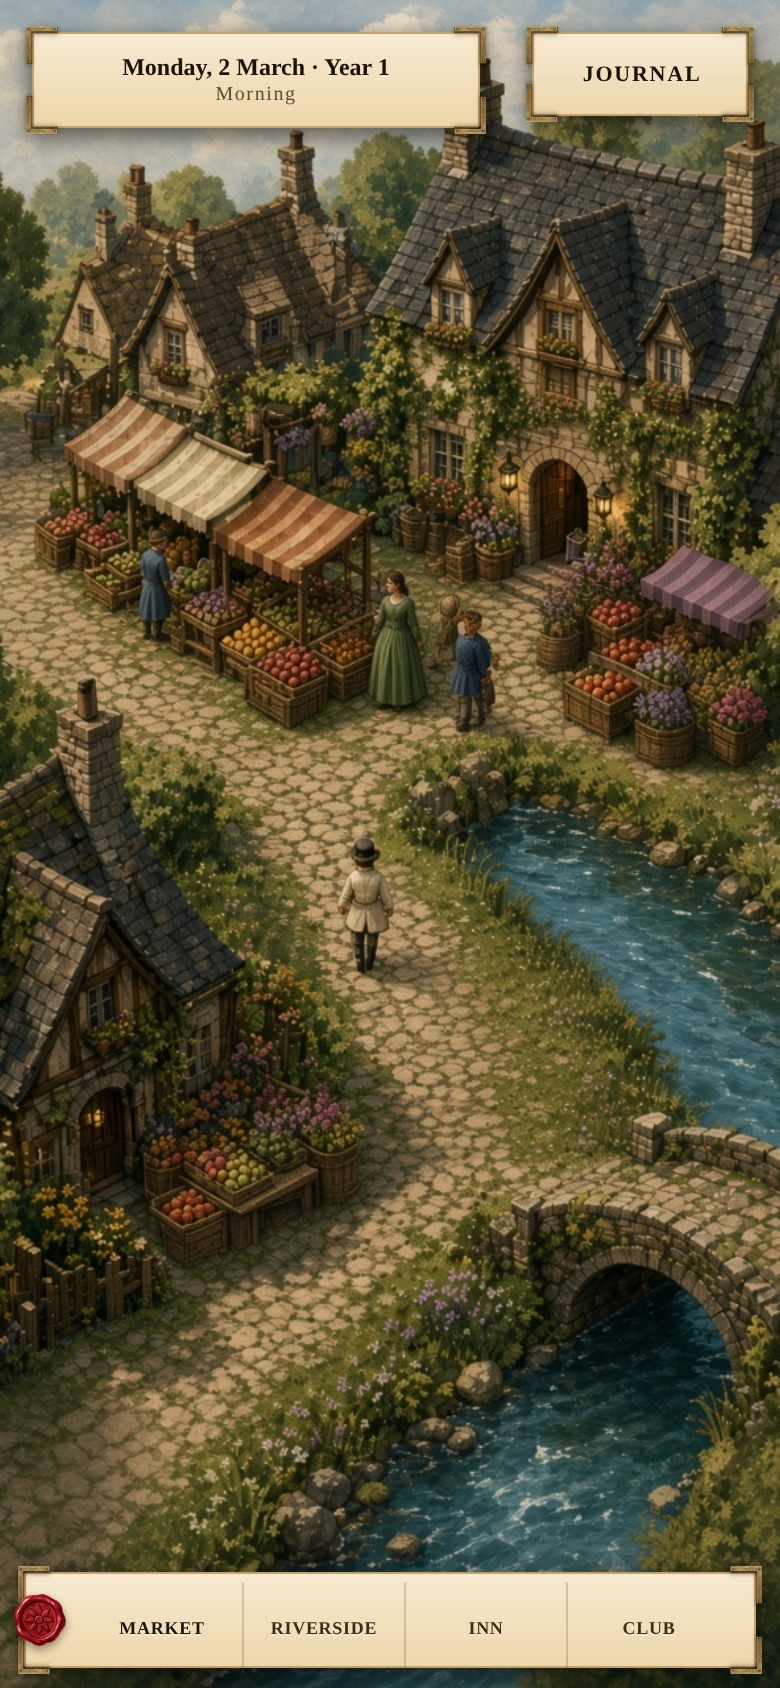
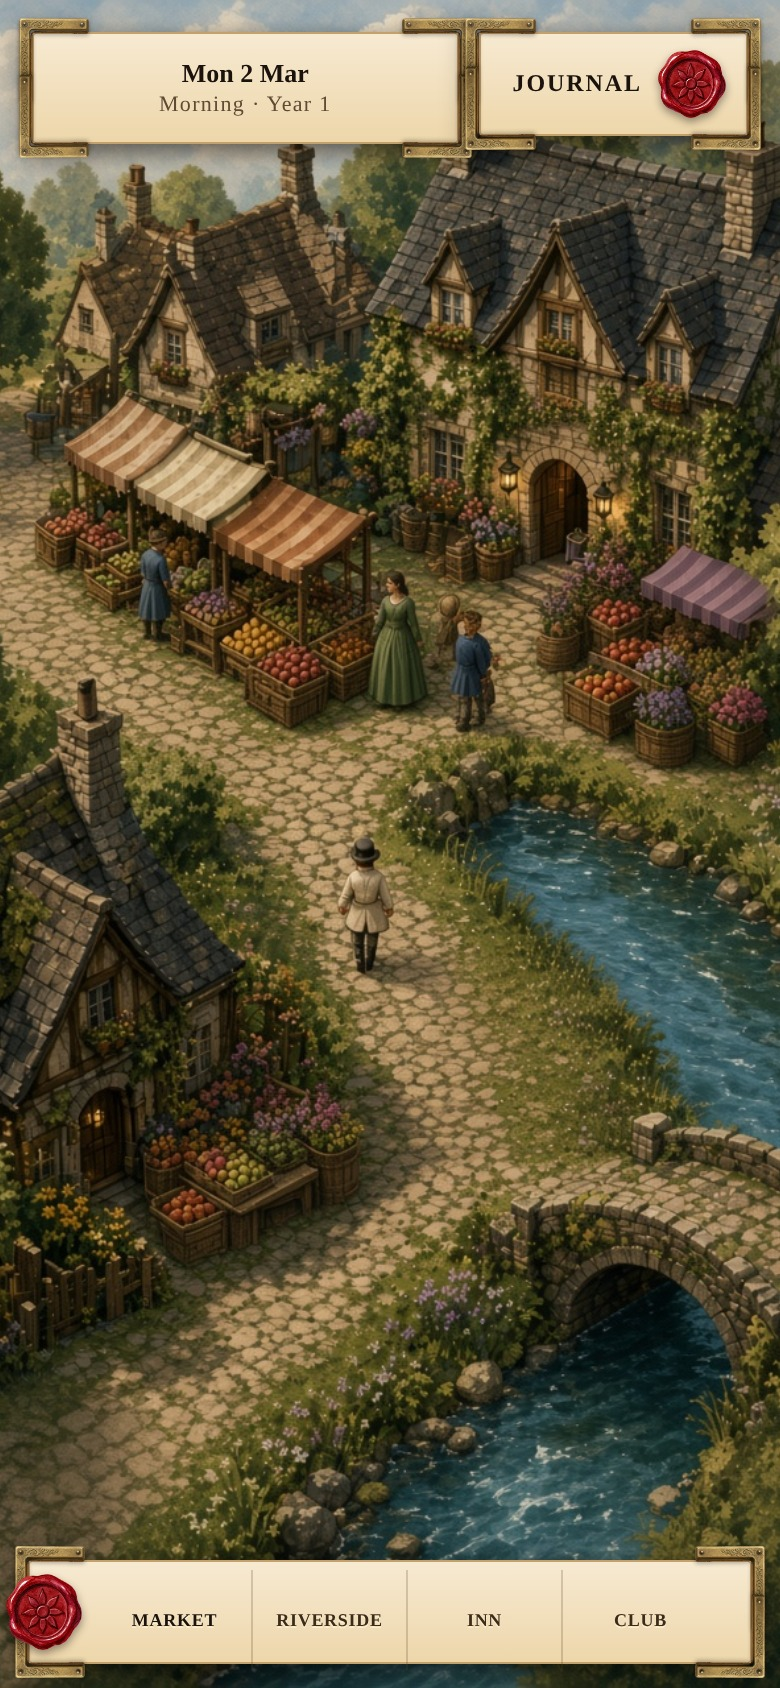
Make Market chrome use the brass photo-corners and wax seals.
The previous pass shrank the hardware so the bars still read as the old cream buttons.

Changed region(s): [[0.0, 0.8934, 0.9846, 1.0], [0.0, 0.0, 0.9846, 0.1232]]

diff --git a/mockups/isometric-town/market-phone.html b/mockups/isometric-town/market-phone.html
@@ -25,7 +25,7 @@
   .paperPlaque{
     position:relative;
     display:flex;flex-direction:row;flex-wrap:nowrap;align-items:stretch;
-    height:48px;min-height:48px;padding:0;margin:0;border:1px solid #c4a06a;border-radius:2px;
+    height:56px;min-height:56px;padding:0;margin:0;border:1px solid #c4a06a;border-radius:2px;
     background:linear-gradient(180deg,#f7ead2 0%,#edd6aa 100%);
     box-shadow:0 4px 10px rgba(0,0,0,.35);
     filter:drop-shadow(0 3px 6px rgba(0,0,0,.28));
@@ -33,46 +33,50 @@
   }
   .paperCorners{position:absolute;inset:0;z-index:5;pointer-events:none}
   .paperCorner{
-    position:absolute;width:16px;height:19px;object-fit:contain;pointer-events:none;
+    position:absolute;width:36px;height:42px;object-fit:contain;pointer-events:none;
     filter:drop-shadow(0 1px 1px rgba(0,0,0,.35));
   }
-  .paperCorner-tl{top:-4px;left:-4px}
-  .paperCorner-tr{top:-4px;right:-4px;transform:scaleX(-1)}
-  .paperCorner-bl{bottom:-4px;left:-4px;transform:scaleY(-1)}
-  .paperCorner-br{bottom:-4px;right:-4px;transform:scale(-1)}
+  .paperCorner-tl{top:-8px;left:-8px}
+  .paperCorner-tr{top:-8px;right:-8px;transform:scaleX(-1)}
+  .paperCorner-bl{bottom:-8px;left:-8px;transform:scaleY(-1)}
+  .paperCorner-br{bottom:-8px;right:-8px;transform:scale(-1)}
   .scrollWell{
     flex:1 1 auto;min-width:0;position:relative;z-index:1;
-    display:flex;align-items:center;justify-content:center;gap:6px;
-    margin:0;padding:4px 16px;border:0;background:none;
+    display:flex;align-items:center;justify-content:center;gap:8px;
+    margin:0;padding:6px 22px;border:0;background:none;
   }
   #advanceTime.paperPlaque{
-    flex:1 1 auto;width:auto;min-width:0;max-width:min(224px, calc(100% - 110px));
-    height:48px;min-height:48px;
+    flex:1 1 auto;width:auto;min-width:0;max-width:min(230px, calc(100% - 128px));
+    height:56px;min-height:56px;
   }
   .scrollCopy{display:flex;flex-direction:column;align-items:center;justify-content:center;text-align:center;min-width:0;overflow:hidden}
   #visualDate{
-    font:700 12px/1.1 Georgia,serif;color:#1a120c;max-width:100%;
+    font:700 13px/1.1 Georgia,serif;color:#1a120c;max-width:100%;
     overflow:hidden;text-overflow:ellipsis;white-space:nowrap;
   }
   #visualPhase{
-    font:500 10px/1.1 Georgia,serif;color:#614a34;margin-top:1px;letter-spacing:.08em;
+    font:500 11px/1.1 Georgia,serif;color:#614a34;margin-top:2px;letter-spacing:.06em;
     max-width:100%;overflow:hidden;text-overflow:ellipsis;white-space:nowrap;
   }
   #worldRecord.paperPlaque{
-    height:42px;min-height:42px;min-width:108px;padding:0;gap:0;
-    font:800 11px/1 Georgia,serif;letter-spacing:.08em;text-transform:uppercase;color:#1a120c;
+    height:52px;min-height:52px;min-width:132px;padding:0;gap:0;
+    font:800 12px/1 Georgia,serif;letter-spacing:.08em;text-transform:uppercase;color:#1a120c;
   }
-  #worldRecord .scrollWell{padding:4px 12px 4px 14px}
+  #worldRecord .scrollWell{padding:4px 10px 4px 16px;gap:8px}
+  #worldRecord .paperSeal{
+    width:34px;height:34px;flex:0 0 auto;object-fit:contain;
+    filter:drop-shadow(0 2px 2px rgba(0,0,0,.4));
+  }
   .locationStrip.paperPlaque{
     position:absolute;z-index:32;left:50%;right:auto;
-    bottom:max(10px, env(safe-area-inset-bottom, 0px));
-    width:min(620px, calc(100% - 24px));height:48px;min-height:48px;
+    bottom:max(12px, env(safe-area-inset-bottom, 0px));
+    width:min(620px, calc(100% - 28px));height:52px;min-height:52px;
     transform:translateX(-50%);
   }
-  .locationStrip .scrollWell{padding:4px 12px 4px 28px}
+  .locationStrip .scrollWell{padding:4px 16px 4px 34px}
   .paperSeal-left{
-    position:absolute;left:-6px;top:50%;transform:translateY(-50%);
-    width:26px;height:26px;object-fit:contain;z-index:6;
+    position:absolute;left:-12px;top:50%;transform:translateY(-50%);
+    width:38px;height:38px;object-fit:contain;z-index:6;
     filter:drop-shadow(0 2px 2px rgba(0,0,0,.4));pointer-events:none;
   }
   .locationWell{
@@ -101,8 +105,8 @@
       </span>
       <span class="scrollWell">
         <span class="scrollCopy">
-          <b id="visualDate">Monday, 2 March · Year 1</b>
-          <span id="visualPhase">Morning</span>
+          <b id="visualDate">Mon 2 Mar</b>
+          <span id="visualPhase">Morning · Year 1</span>
         </span>
       </span>
     </button>
@@ -114,7 +118,7 @@
           <img class="paperCorner paperCorner-bl" src="./paper_corner.png" alt="">
           <img class="paperCorner paperCorner-br" src="./paper_corner.png" alt="">
         </span>
-        <span class="scrollWell"><span>Journal</span></span>
+        <span class="scrollWell"><span>Journal</span><img class="paperSeal" src="./paper_seal.png" alt=""></span>
       </button>
     </div>
   </div>
